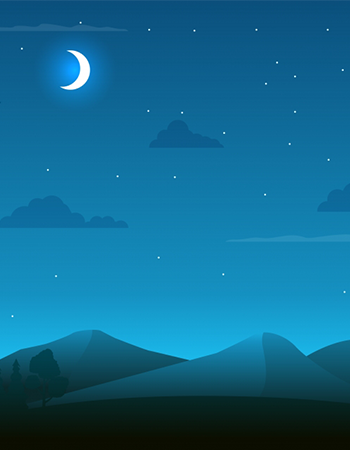
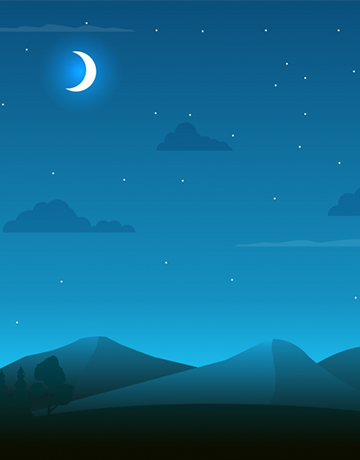
Prenenchido totalmente as bordas do fundo da imagem. Alterada a dimenção da imagem de fundo.

diff --git a/main.py b/main.py
@@ -16,11 +16,11 @@ janela.resizable(0, 0)  # JANELA TRAVADA.
 frame = Frame(janela)
 frame.place(x=0, y=0, relwidth=1, relheight=1)
 
-canvas = Canvas(frame, bg="#EEEEEE", width=350, height=450)
-canvas.place(relheight=1, relwidth=1)
+canvas = Canvas(frame, bg="#000", width=350, height=450, relief=RAISED)
+canvas.place(x=-2, y=0)
 
 fundo_noite = PhotoImage(file='icons/bg/noite.png')
-canvas.create_image(173,224,image=fundo_noite)
+canvas.create_image(175,224,image=fundo_noite)
 
 
 # -Estilos-
